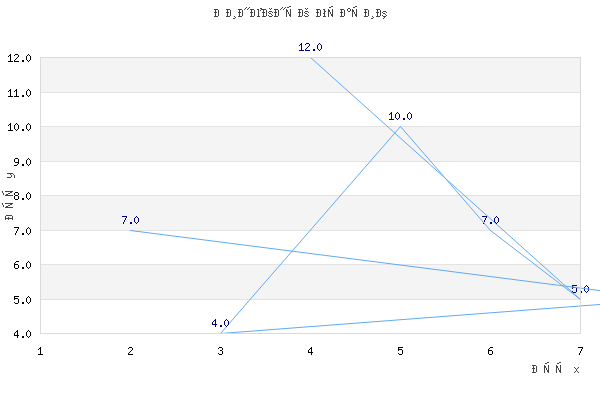
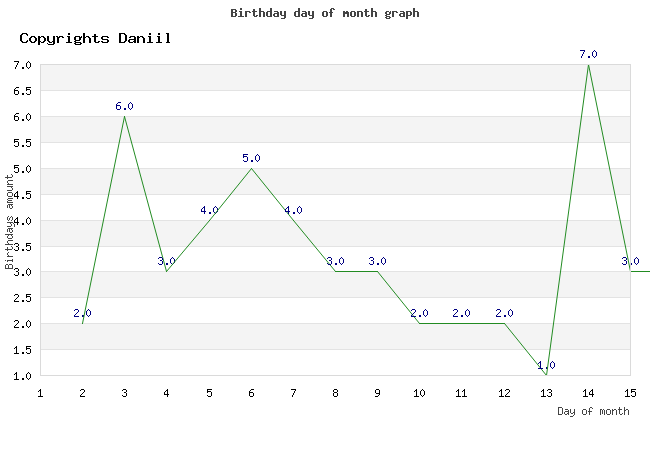
Final practice 6

diff --git a/practice_6/nginx/src/index.html b/practice_6/nginx/src/index.html
@@ -12,7 +12,9 @@
 <button onclick="window.location.replace(
                 `/admin/admin.php`)">Administrate</button>
 <button onclick="window.location.replace(
-                `/admin/settings.php`)">Settings</button><br>
+                `/admin/settings.php`)">Settings</button>
+<button onclick="window.location.replace(
+                `/statistic/statistics.php`)">Statistics</button><br>
 <h1>Welcome to our coffee house</h1><br>
 <h2>We hope you will enjoy our magnificent coffee.</h2>
 </body>

diff --git a/practice_6/nginx/src/about.html b/practice_6/nginx/src/about.html
@@ -12,7 +12,9 @@
 <button onclick="window.location.replace(
                 `/admin/admin.php`)">Administrate</button>
 <button onclick="window.location.replace(
-                `/admin/settings.php`)">Settings</button><br>
+                `/admin/settings.php`)">Settings</button>
+<button onclick="window.location.replace(
+                `/statistic/statistics.php`)">Statistics</button><br>
 <h1>
     About coffee house
 </h1><br>

diff --git a/practice_6/apache/src/statistic/statistics.php b/practice_6/apache/src/statistic/statistics.php
@@ -1,0 +1,75 @@
+<!DOCTYPE html>
+<html lang="en">
+<head>
+    <meta charset="UTF-8">
+    <title>Статистика</title>
+</head>
+<body>
+<?php
+require_once "./fixture.php";
+
+generate_data();
+?>
+<?php
+require_once "./bar_graph.php";
+require_once "./line_graph.php";
+require_once "./pie_graph.php";
+
+
+function stamp(string $water): GdImage | bool {
+    $image = imagecreate(100, 30);
+    imagecolorallocatealpha($image, 255, 255, 255, 127);
+    $textColor = imagecolorallocatealpha($image, 0, 0, 0, 100);
+    imagestring($image, 5, 20, 5, $water, $textColor);
+    return $image;
+}
+
+function watermark(string $image) {
+// Load the stamp and the photo to apply the watermark to
+    $im = imagecreatefrompng($image);
+    $whitecolor = imagecolorallocate($im, 25, 233, 12);
+    $blackcolor = imagecolorallocate($im, 0, 0, 0);
+    imagestring($im, 5, 20, 30, 'Copyrights Daniil', $blackcolor);
+    header("Content-type: image/png");
+    imagepng($im, $image);
+}
+
+//watermark(draw_bar_plot(), stamp("Watermark by Daniil"));
+//watermark((), stamp("Watermark by Daniil"));
+//watermark((), stamp("Watermark by Daniil"));
+
+draw_bar_plot();
+draw_line_plot();
+draw_pie_plot();
+
+watermark("images/bar_graph.png");
+watermark("images/line_graph.png");
+watermark("images/pie_graph.png");
+?>
+<img src="images/bar_graph.png" alt="plot_1.png">
+<img src="images/line_graph.png" alt="plot_2.png">
+<img src="images/pie_graph.png" alt="plot_3.png">
+
+<table class="table">
+    <tr>
+        <th>Name</th>
+        <th>Color</th>
+        <th>Month</th>
+        <th>Weekday</th>
+        <th>Day of month</th>
+    </tr>
+    <?php
+    $data = get_data();
+
+    foreach ($data as $data_row) {
+        echo "<tr>";
+        echo "<td>".$data_row->name."</td>";
+        echo "<td>".$data_row->color."</td>";
+        echo "<td>".$data_row->month."</td>";
+        echo "<td>".$data_row->weekday."</td>";
+        echo "<td>".$data_row->day."</td>";
+        echo "</tr>";
+    }
+    ?>
+</table>
+</body>

diff --git a/practice_6/apache/src/statistic/line_graph.php b/practice_6/apache/src/statistic/line_graph.php
@@ -8,16 +8,17 @@ require_once '/var/www/html/vendor/autoload.php';
 use Amenadiel\JpGraph\Graph;
 use Amenadiel\JpGraph\Plot;
 
-function draw_line_plot() : GdImage
+function draw_line_plot() : void
 {
 
     $graph_data = get_day_count();
     $ydata = $graph_data["values"];
     $xdata = $graph_data["keys"];
 
-    $graph = new Graph\Graph(600, 400, 'lineGraph', 10, true);
+    sort($xdata);
 
-// Указываем, какие оси использовать:
+    $graph = new Graph\Graph(650, 450, 'lineGraph', 10, true);
+
     $graph->SetScale('textlin');
 
 
@@ -27,23 +28,29 @@ function draw_line_plot() : GdImage
 
     $graph->Add($lineplot);
 
-    $graph->title->Set('Линейный график');
+    $graph->title->Set('Birthday day of month graph');
 
     $graph->title->SetFont(FF_ARIAL, FS_NORMAL);
     $graph->xaxis->title->SetFont(FF_VERDANA, FS_ITALIC);
     $graph->yaxis->title->SetFont(FF_TIMES, FS_BOLD);
 
-    $graph->xaxis->title->Set('Ось x');
-    $graph->yaxis->title->Set('Ось y');
+    $graph->xaxis->title->Set('Day of month');
+    $graph->yaxis->title->Set('Birthdays amount');
 
     $graph->xaxis->SetColor('#СС0000');
     $graph->yaxis->SetColor('#СС0000');
 
-    $lineplot->SetWeight(2);
+    $lineplot->SetWeight(1);
 
     $lineplot->value->Show();
 
-    $graph->SetShadow(4);
+    $graph->SetShadow(2);
 
-    return $graph->Stroke('/var/www/html/statistic/images/line_graph.png');
+    $graph->title->Set("Birthday day of month graph");
+
+    $graph->title->SetFont(FF_FONT1, FS_BOLD);
+
+    $graph->Stroke('images/line_graph.png');
+
+    //return $graph->Stroke('/var/www/html/statistic/images/line_graph.png');
 }

diff --git a/practice_6/apache/src/statistic/fixture.php b/practice_6/apache/src/statistic/fixture.php
@@ -15,24 +15,14 @@ function generate_data()
             $faker->name(),
             $faker->colorName(),
             $faker->monthName(),
-            $faker->numberBetween(1,7)
+            $faker->dayOfWeek,
+            $faker->numberBetween(1,15)
         );
         $data[] = $data_row;
     }
     $jsonData = json_encode($data);
     file_put_contents('fixtures.json', $jsonData);
 }
-
-
-/*require '../vendor/autoload.php';
-use Nelmio\Alice\Loader\NativeLoader;
-
-
-class Dump {
-    public $month;
-    public $weekday;
-    public $monthday;
-}*/
 
 
 function get_data() {
@@ -46,7 +36,7 @@ function get_weekday_count(): array {
     $data = get_data();
     $weekday_count = array();
     foreach ($data as $obj) {
-        $weekday = $obj->color;
+        $weekday = $obj->weekday;
         if (!isset($weekday_count[$weekday])) {
             $weekday_count[$weekday] = 0;
         }
@@ -72,7 +62,7 @@ function get_day_count(): array {
     $data = get_data();
     $day_count = array();
     foreach ($data as $obj) {
-        $day = $obj->weekday;
+        $day = $obj->day;
         if (!isset($day_count[$day])) {
             $day_count[$day] = 0;
         }

diff --git a/practice_6/apache/src/statistic/bar_graph.php b/practice_6/apache/src/statistic/bar_graph.php
@@ -8,29 +8,31 @@ require_once '/var/www/html/vendor/autoload.php';
 use Amenadiel\JpGraph\Graph;
 use Amenadiel\JpGraph\Plot;
 
-function draw_bar_plot() : GdImage
+function draw_bar_plot(): void
 {
     $graph_data = get_month_count();
     $data = $graph_data["values"];
     $labels = $graph_data["keys"];
 
-    $graph = new Graph\Graph(600, 400, 'barGraph', 10, true);
+    $graph = new Graph\Graph(650, 400, 'barGraph', 10, true);
 
     $graph->SetScale('textlin');
 
     $barplot = new Plot\BarPlot($data);
 
-    $graph->title->Set('Столбчатая диаграмма');
+    $graph->title->Set('Birthday month graph');
 
     $graph->SetScale('textlin');
 
     $graph->xaxis->SetTickLabels($labels);
 
-    $graph->title->Set("Граф");
+    $graph->title->Set("Birthday month graph");
 
     $graph->title->SetFont(FF_FONT1, FS_BOLD);
 
     $graph->Add($barplot);
 
-    return $graph->Stroke('/var/www/html/statistic/images/bar_graph.png');
+    $graph->Stroke('images/bar_graph.png');
+
+    //return $graph->Stroke('/var/www/html/statistic/images/bar_graph.png');
 }

diff --git a/practice_6/apache/src/statistic/pie_graph.php b/practice_6/apache/src/statistic/pie_graph.php
@@ -9,13 +9,13 @@ use Amenadiel\JpGraph\Graph;
 use Amenadiel\JpGraph\Plot;
 
 
-function draw_pie_plot() : GdImage
+function draw_pie_plot() : void
 {
     $graph_data = get_weekday_count();
     $data = $graph_data["values"];
     $labels = $graph_data["keys"];
 
-    $graph = new Graph\PieGraph(600, 400, 'pieGraph', 10, true);
+    $graph = new Graph\PieGraph(650, 400, 'pieGraph', 10, true);
 
     $pieplot = new Plot\PiePlot($data);
 
@@ -26,11 +26,19 @@ function draw_pie_plot() : GdImage
 
     $pieplot->SetLabels($labels);
 
-    $graph->title->Set('Круговая диаграмма');
+    $graph->title->Set('Birthday day of week graph');
 
     $graph->Add($pieplot);
 
     $graph->SetShadow(4);
 
-    return $graph->Stroke('/var/www/html/statistic/images/pie_graph.png');
+    $graph->SetUserFont(FF_FONT1);
+
+    $graph->title->SetFont(FF_FONT1, FS_BOLD);
+
+    $graph->title->Set("Birthday day of week graph");
+
+    $graph->Stroke('images/pie_graph.png');
+
+    //return $graph->Stroke('/var/www/html/statistic/images/pie_graph.png');
 }

diff --git a/practice_6/apache/src/statistic/DataInstance.php b/practice_6/apache/src/statistic/DataInstance.php
@@ -6,19 +6,22 @@ class DataInstance
     public string $color;
     public string $month;
     public string $weekday;
+    public int $day;
 
     /**
      * @param string $name
      * @param string $color
      * @param string $month
      * @param string $weekday
+     * @param int $day
      */
-    public function __construct(string $name, string $color, string $month, string $weekday)
+    public function __construct(string $name, string $color, string $month, string $weekday, int $day)
     {
         $this->name = $name;
         $this->color = $color;
         $this->month = $month;
         $this->weekday = $weekday;
+        $this->day = $day;
     }
 
 

diff --git a/practice_6/apache/src/admin/admin.php b/practice_6/apache/src/admin/admin.php
@@ -38,7 +38,7 @@ $dictionary = $DICTIONARY[$_COOKIE['language']];
 <button onclick="window.location.replace(
                 `/catalogue.php`)">Catalogue</button>
 <button onclick="window.location.replace(
-                `/statistics.php`)">Statistics</button><br>
+                `/statistic/statistics.php`)">Statistics</button><br>
 
 <div style="display: flex; flex-flow: column nowrap; justify-content: center; align-items: center; border: 2px solid black">
     <h1 style="display: flex; flex-flow: column nowrap; justify-content: center; align-items: center;">

diff --git a/practice_6/apache/src/admin/settings.php b/practice_6/apache/src/admin/settings.php
@@ -45,7 +45,9 @@ $dictionary = $DICTIONARY[$_SESSION['language']];
 <button onclick="window.location.replace(
                 `/admin/admin.php`)">Administrate</button>
 <button onclick="window.location.replace(
-                `/catalogue.php`)">Catalogue</button><br>
+                `/catalogue.php`)">Catalogue</button>
+<button onclick="window.location.replace(
+                `/statistic/statistics.php`)">Statistics</button><br>
 
 <h2><?php echo $dictionary->SETTING ?></h2>
 

diff --git a/practice_6/apache/src/catalogue.php b/practice_6/apache/src/catalogue.php
@@ -31,7 +31,7 @@
 <button onclick="window.location.replace(
                 `/admin/settings.php`)">Settings</button>
 <button onclick="window.location.replace(
-                `/statistics.php`)">Statistics</button><br>
+                `/statistic/statistics.php`)">Statistics</button><br>
 <h1>Catalogue</h1>
 <table>
     <tr><th>Title</th><th>Volume (L)</th><th>Price (Rub)</th></tr>
